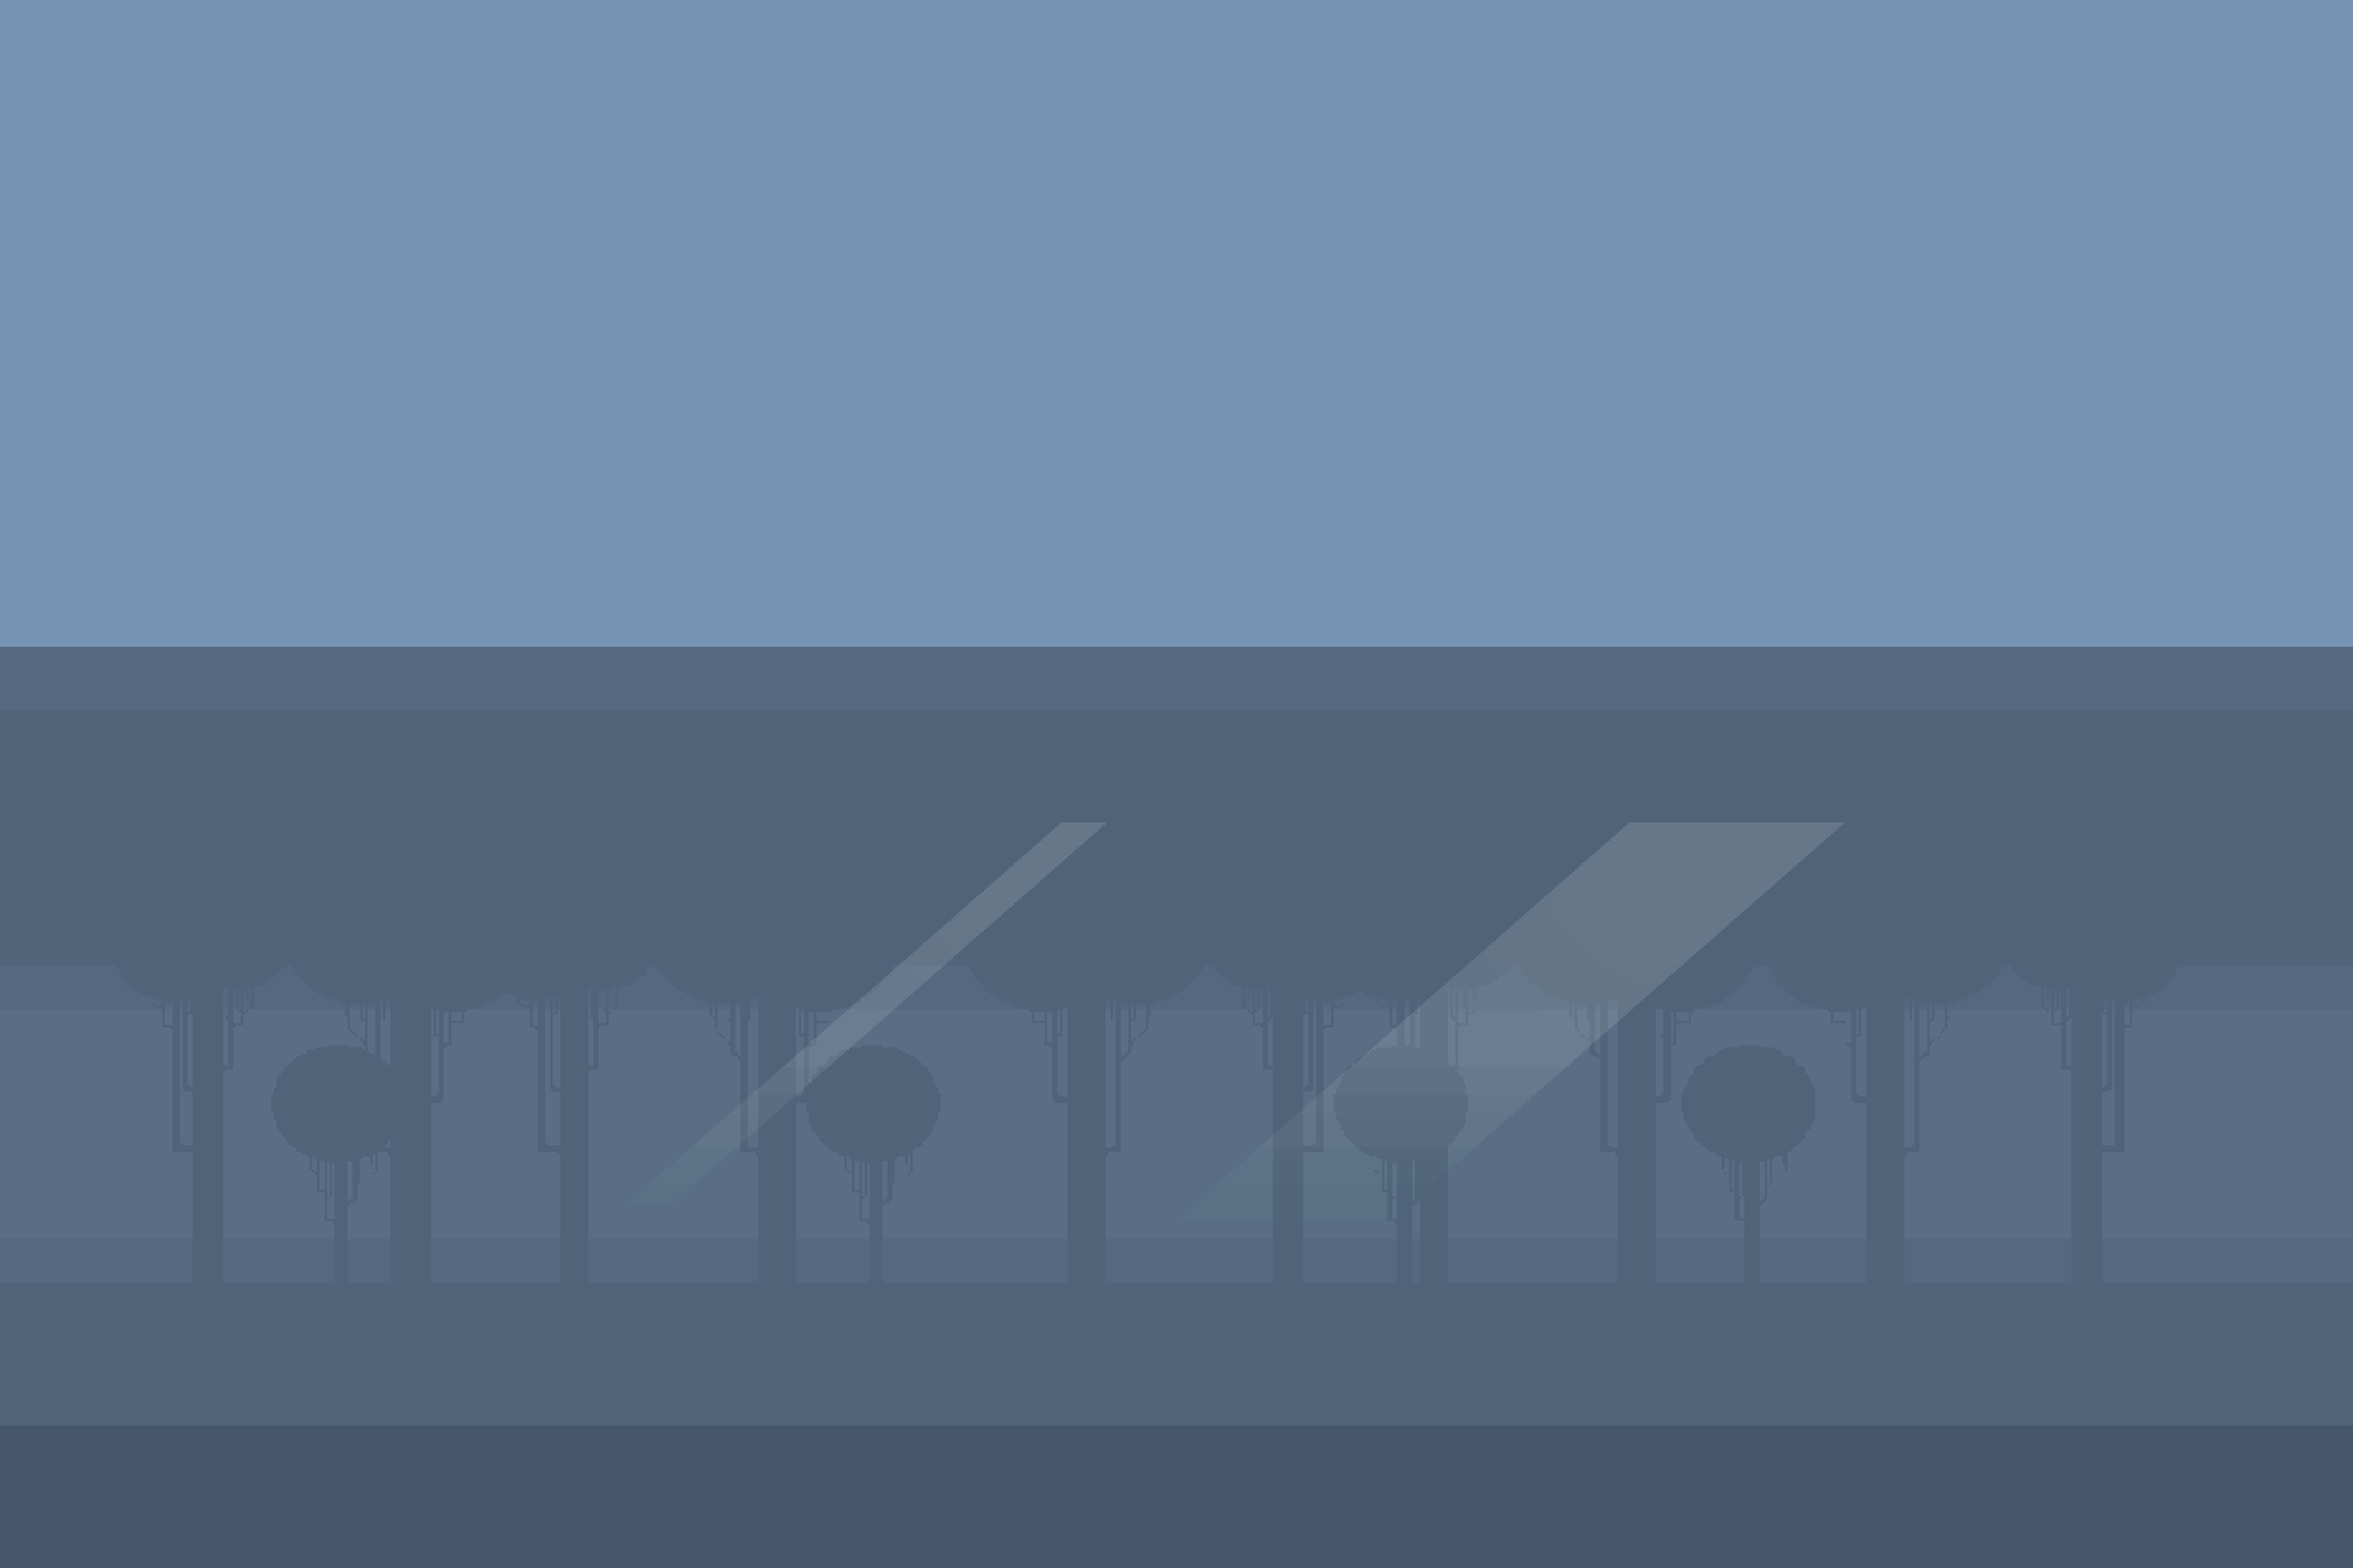
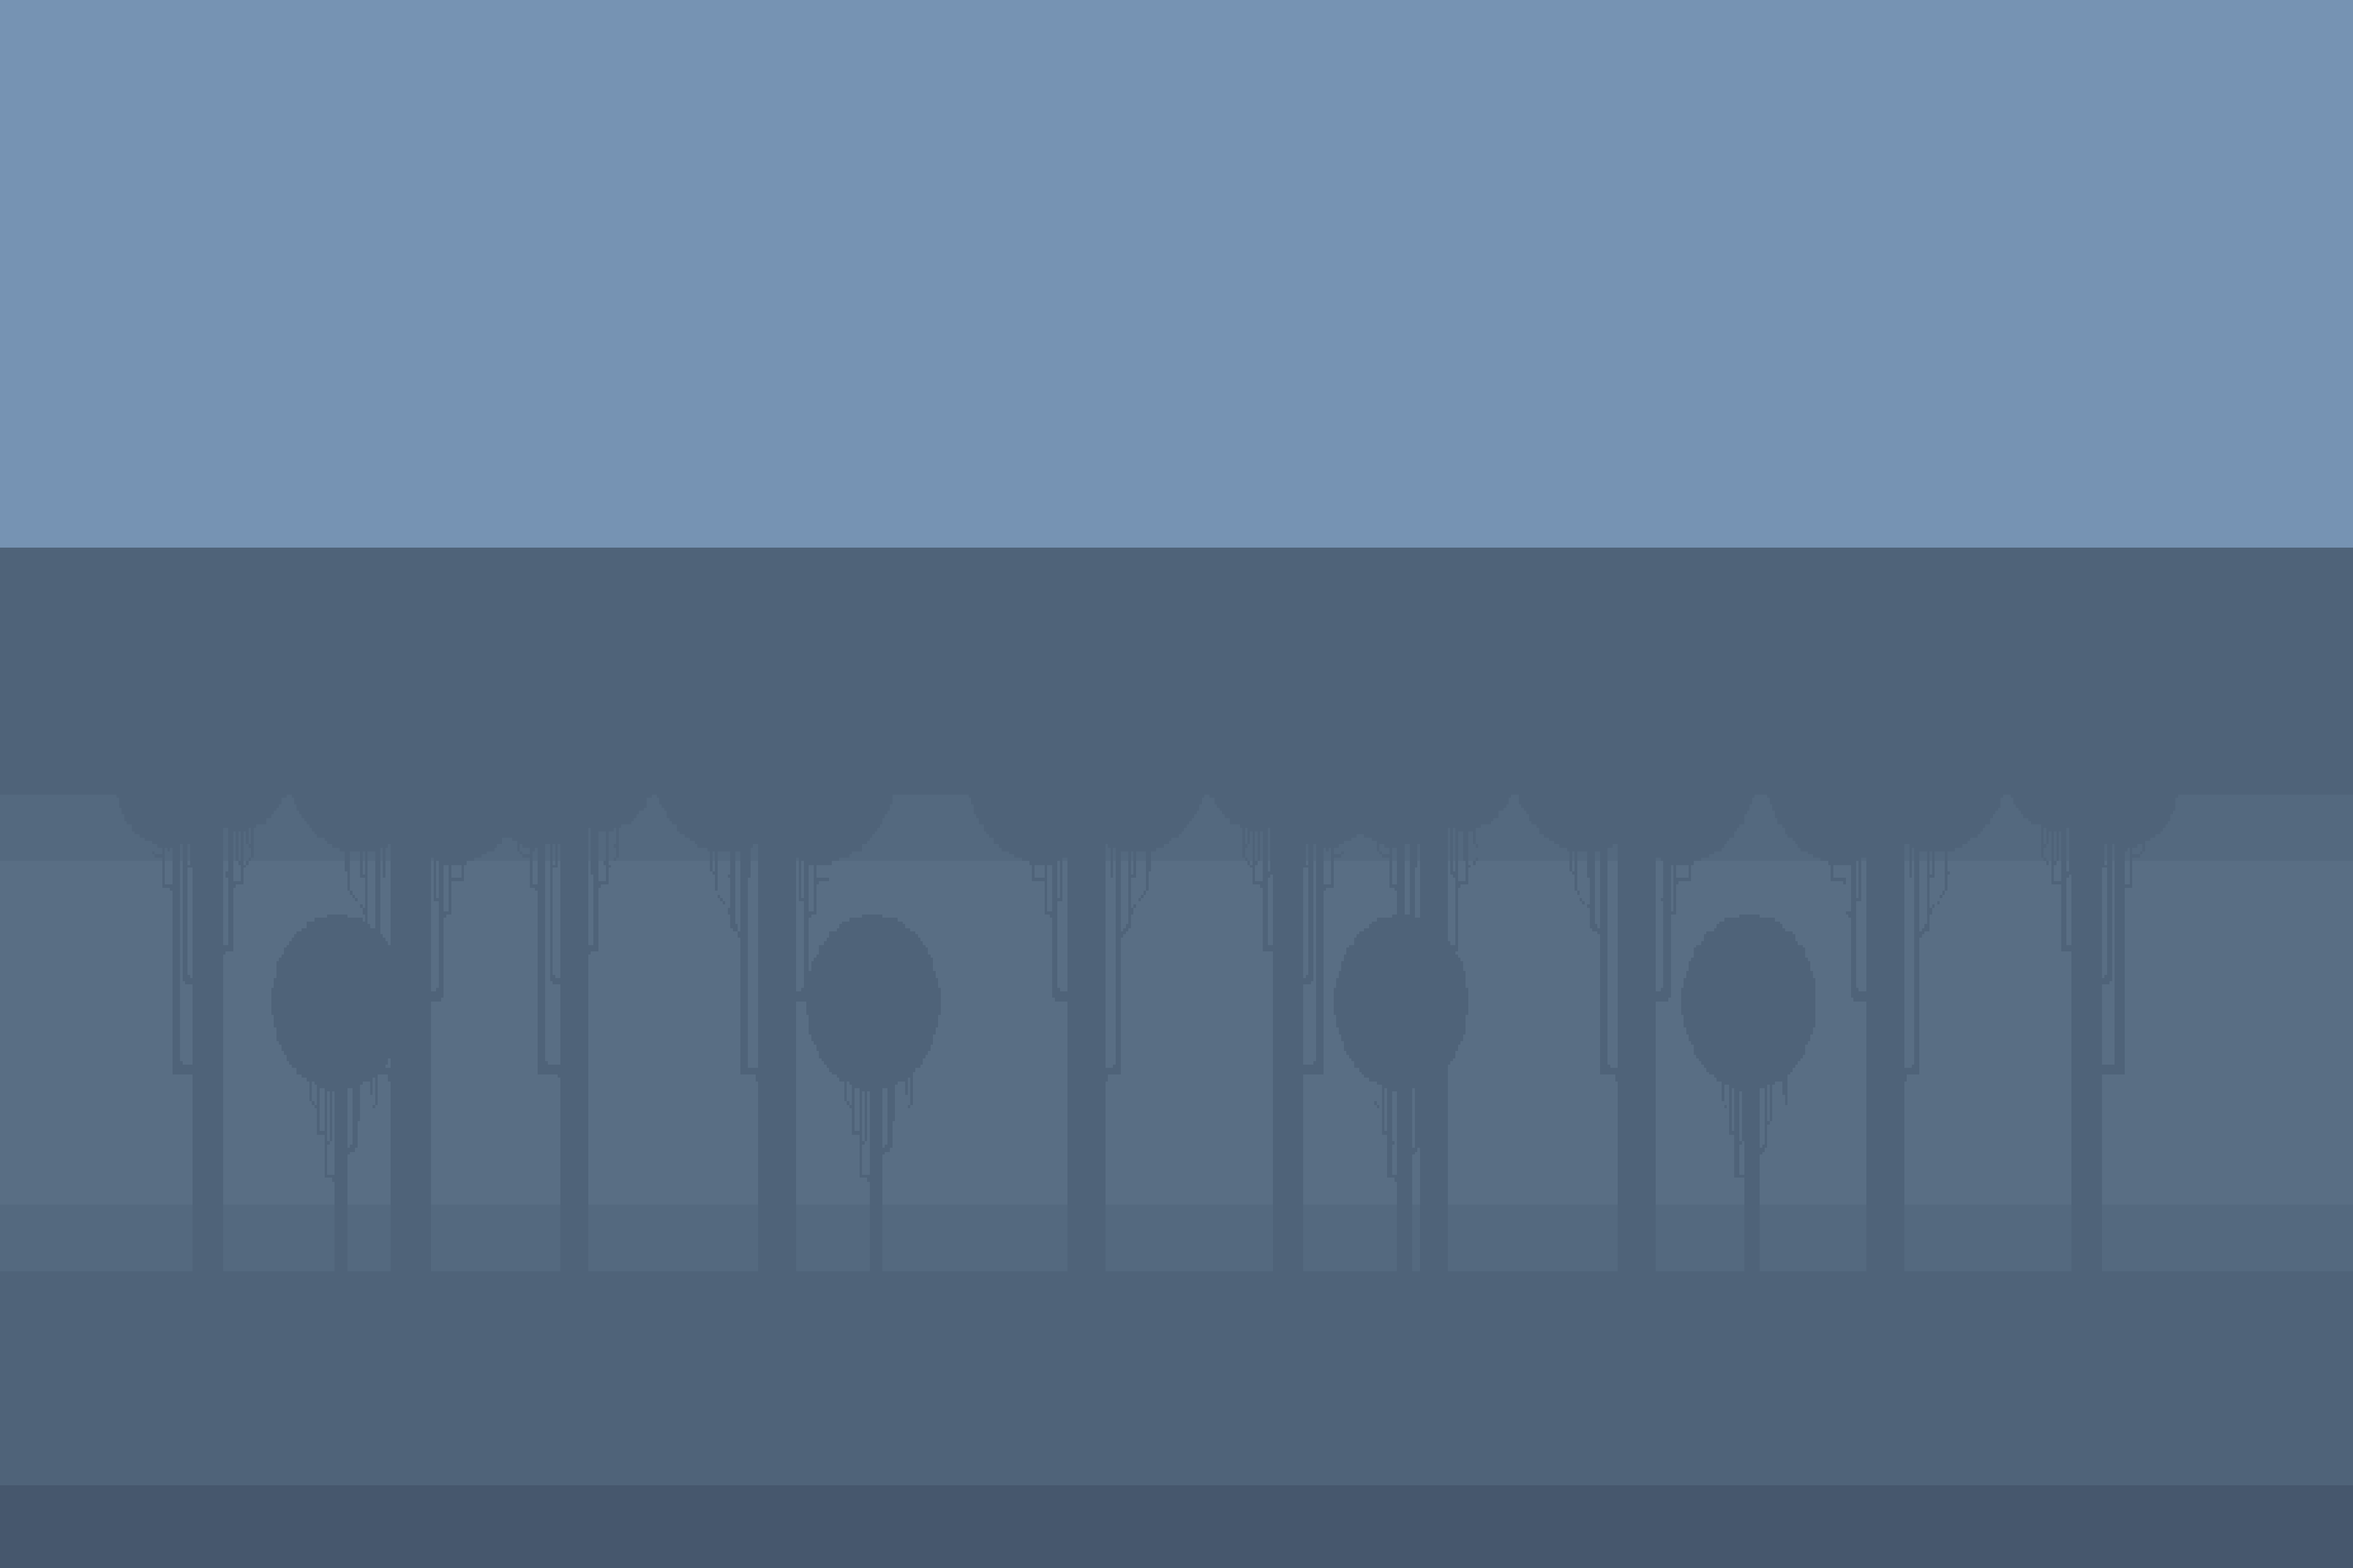
Added parallax to level 1

Changed region(s): [[0.0, 0.3438, 1.0, 0.4375], [0.5922, 0.625, 0.6233, 0.6875], [0.3428, 0.625, 0.374, 0.6875]]

diff --git a/src/model/Map.java b/src/model/Map.java
@@ -89,6 +89,7 @@ public class Map extends Pane {
                     ImageView imageView = new ImageView(image);
                     imageView.setFitWidth(WIDTH);
                     imageView.setFitHeight(HEIGHT);
+                    //imageView.setTranslateX(-500);
                     backgrounds.add(imageView);
                 }
             } else if (item instanceof Circle) {
@@ -107,7 +108,6 @@ public class Map extends Pane {
                 }
             }
         }
-        System.out.println(backgrounds);
 
         this.getChildren().addAll(backgrounds);
         this.getChildren().addAll(enemies);
@@ -211,17 +211,16 @@ public class Map extends Pane {
 
     private void scrollBackgrounds() {
         for(ImageView imageView : backgrounds) {
-            imageView.setTranslateX(player.getTranslateX() * 0.04 * (backgrounds.indexOf(imageView) + 1));
-            imageView.setTranslateY(0);
-
+            imageView.setTranslateX(player.getTranslateX() * 0.04 * (backgrounds.indexOf(imageView) + 1) - 100);
         }
+
         if (darkness != null) {
             darkness.setLayoutX(player.getTranslateX() - darkness.getBoundsInParent().getWidth() / 2);
             darkness.setLayoutY(player.getTranslateY() - darkness.getBoundsInParent().getHeight() / 2);
         }
     }
 
-    public String getMapId() {
+    String getMapId() {
         return mapId;
     }
 }
